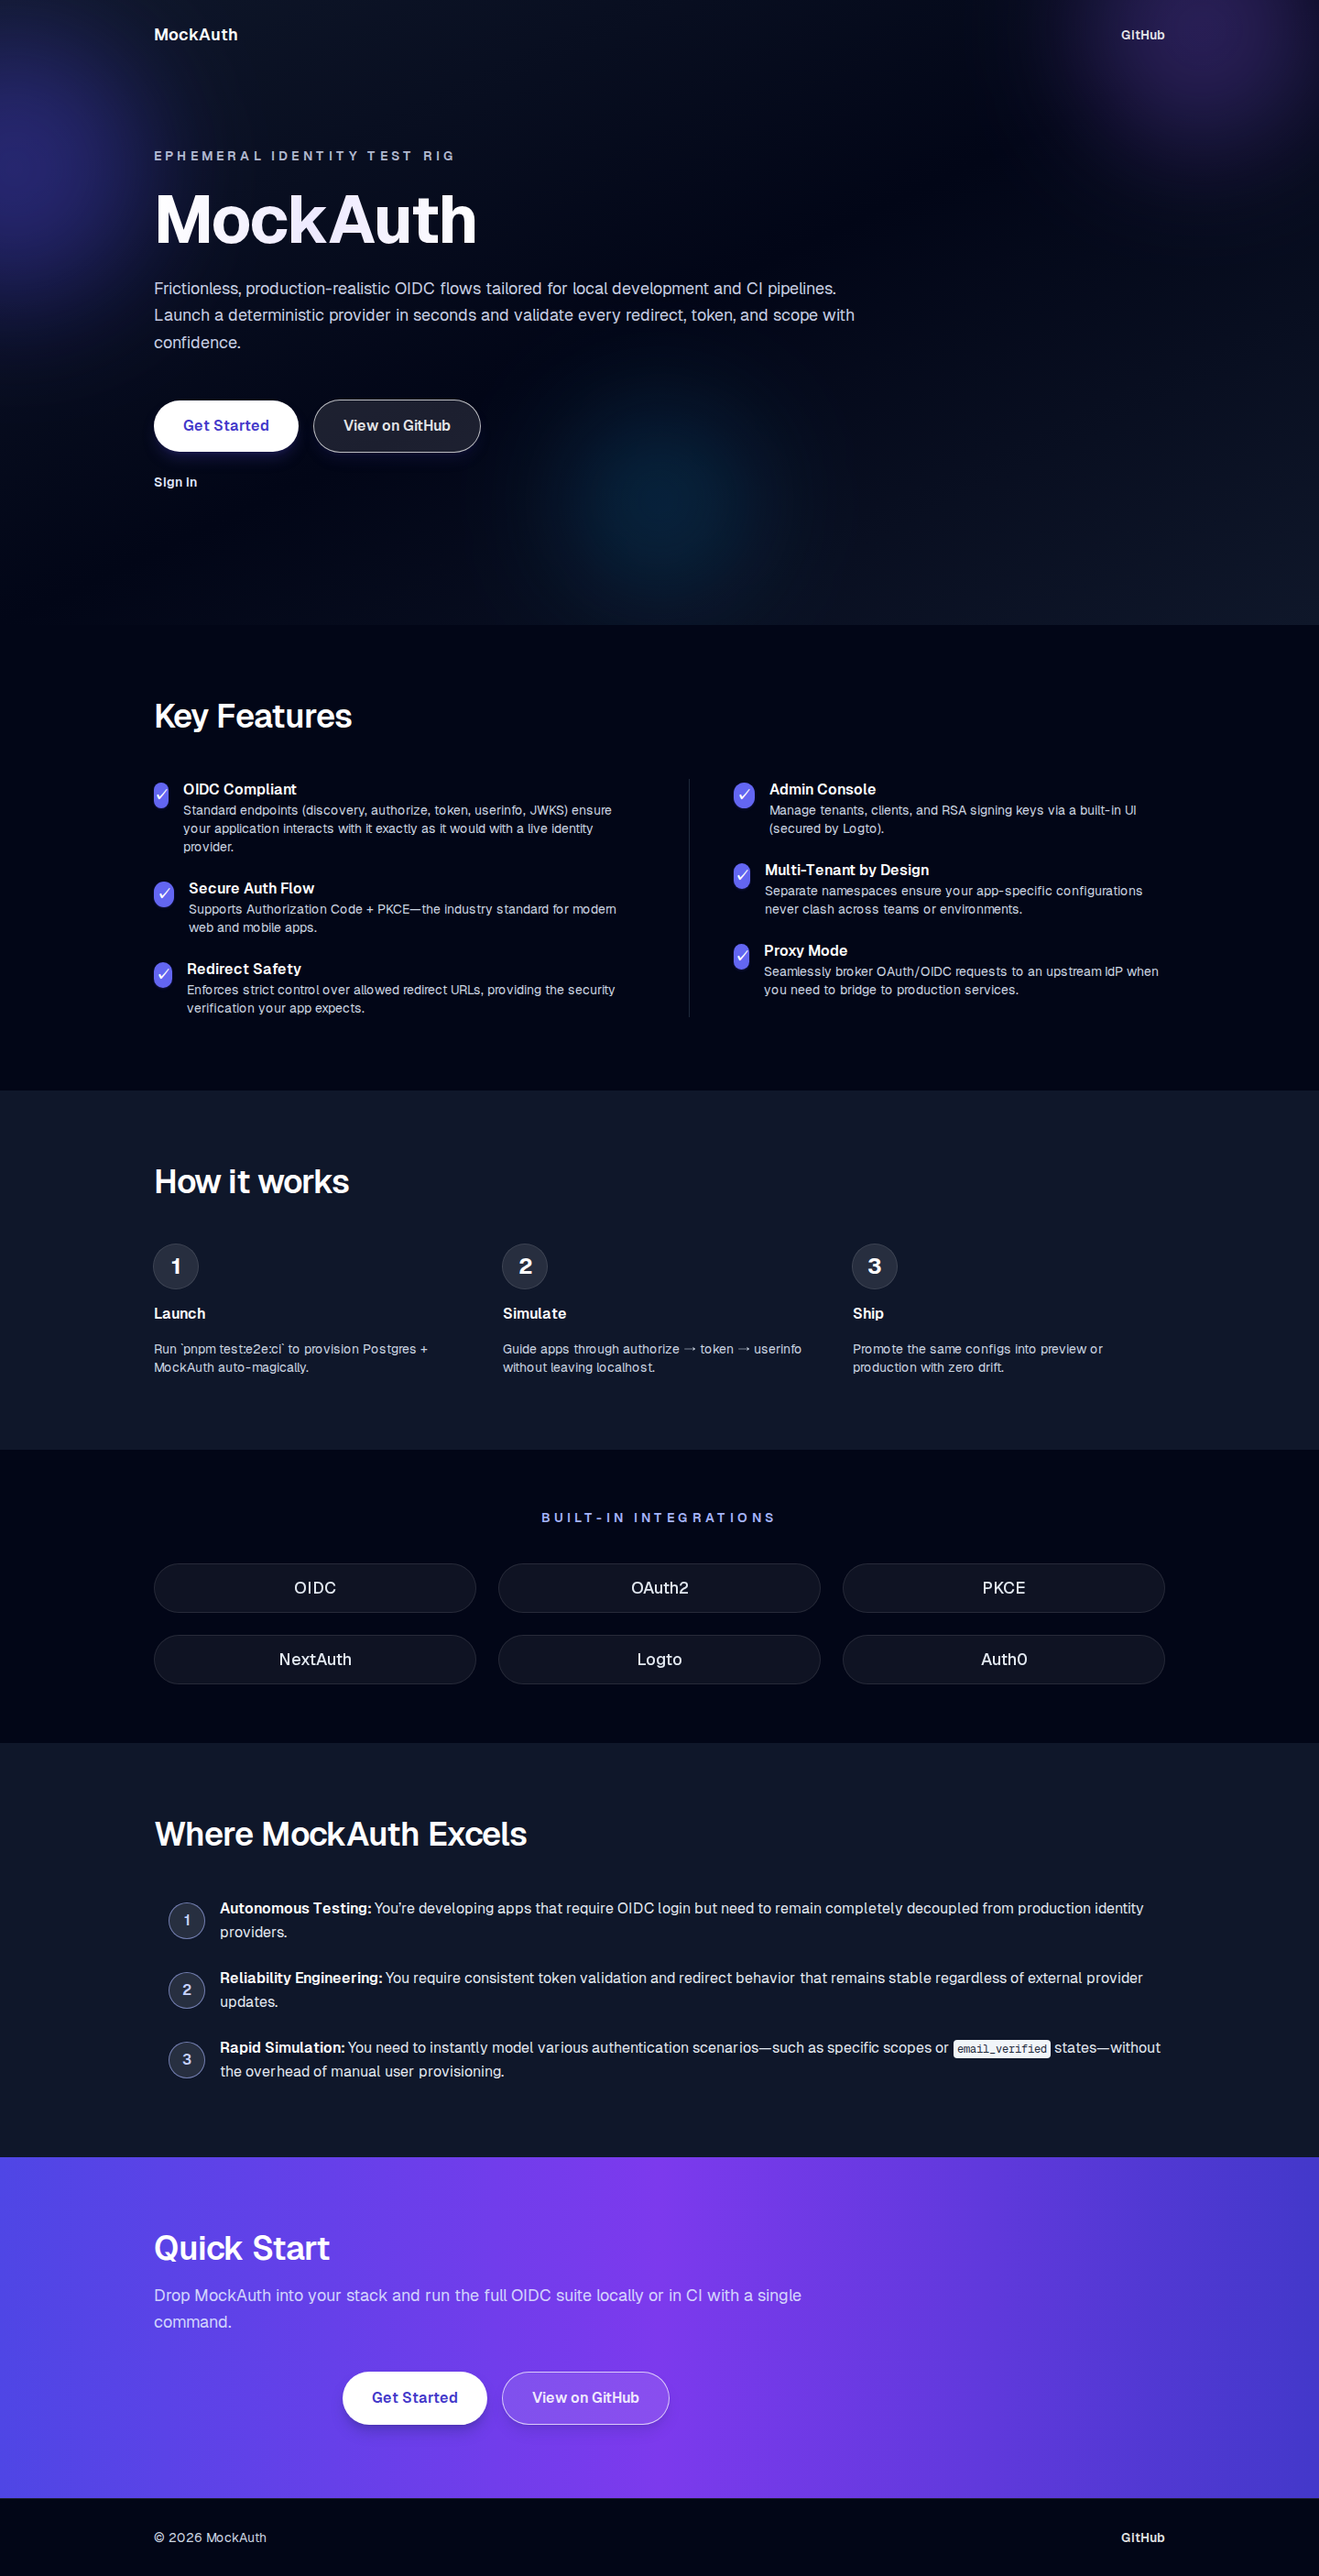
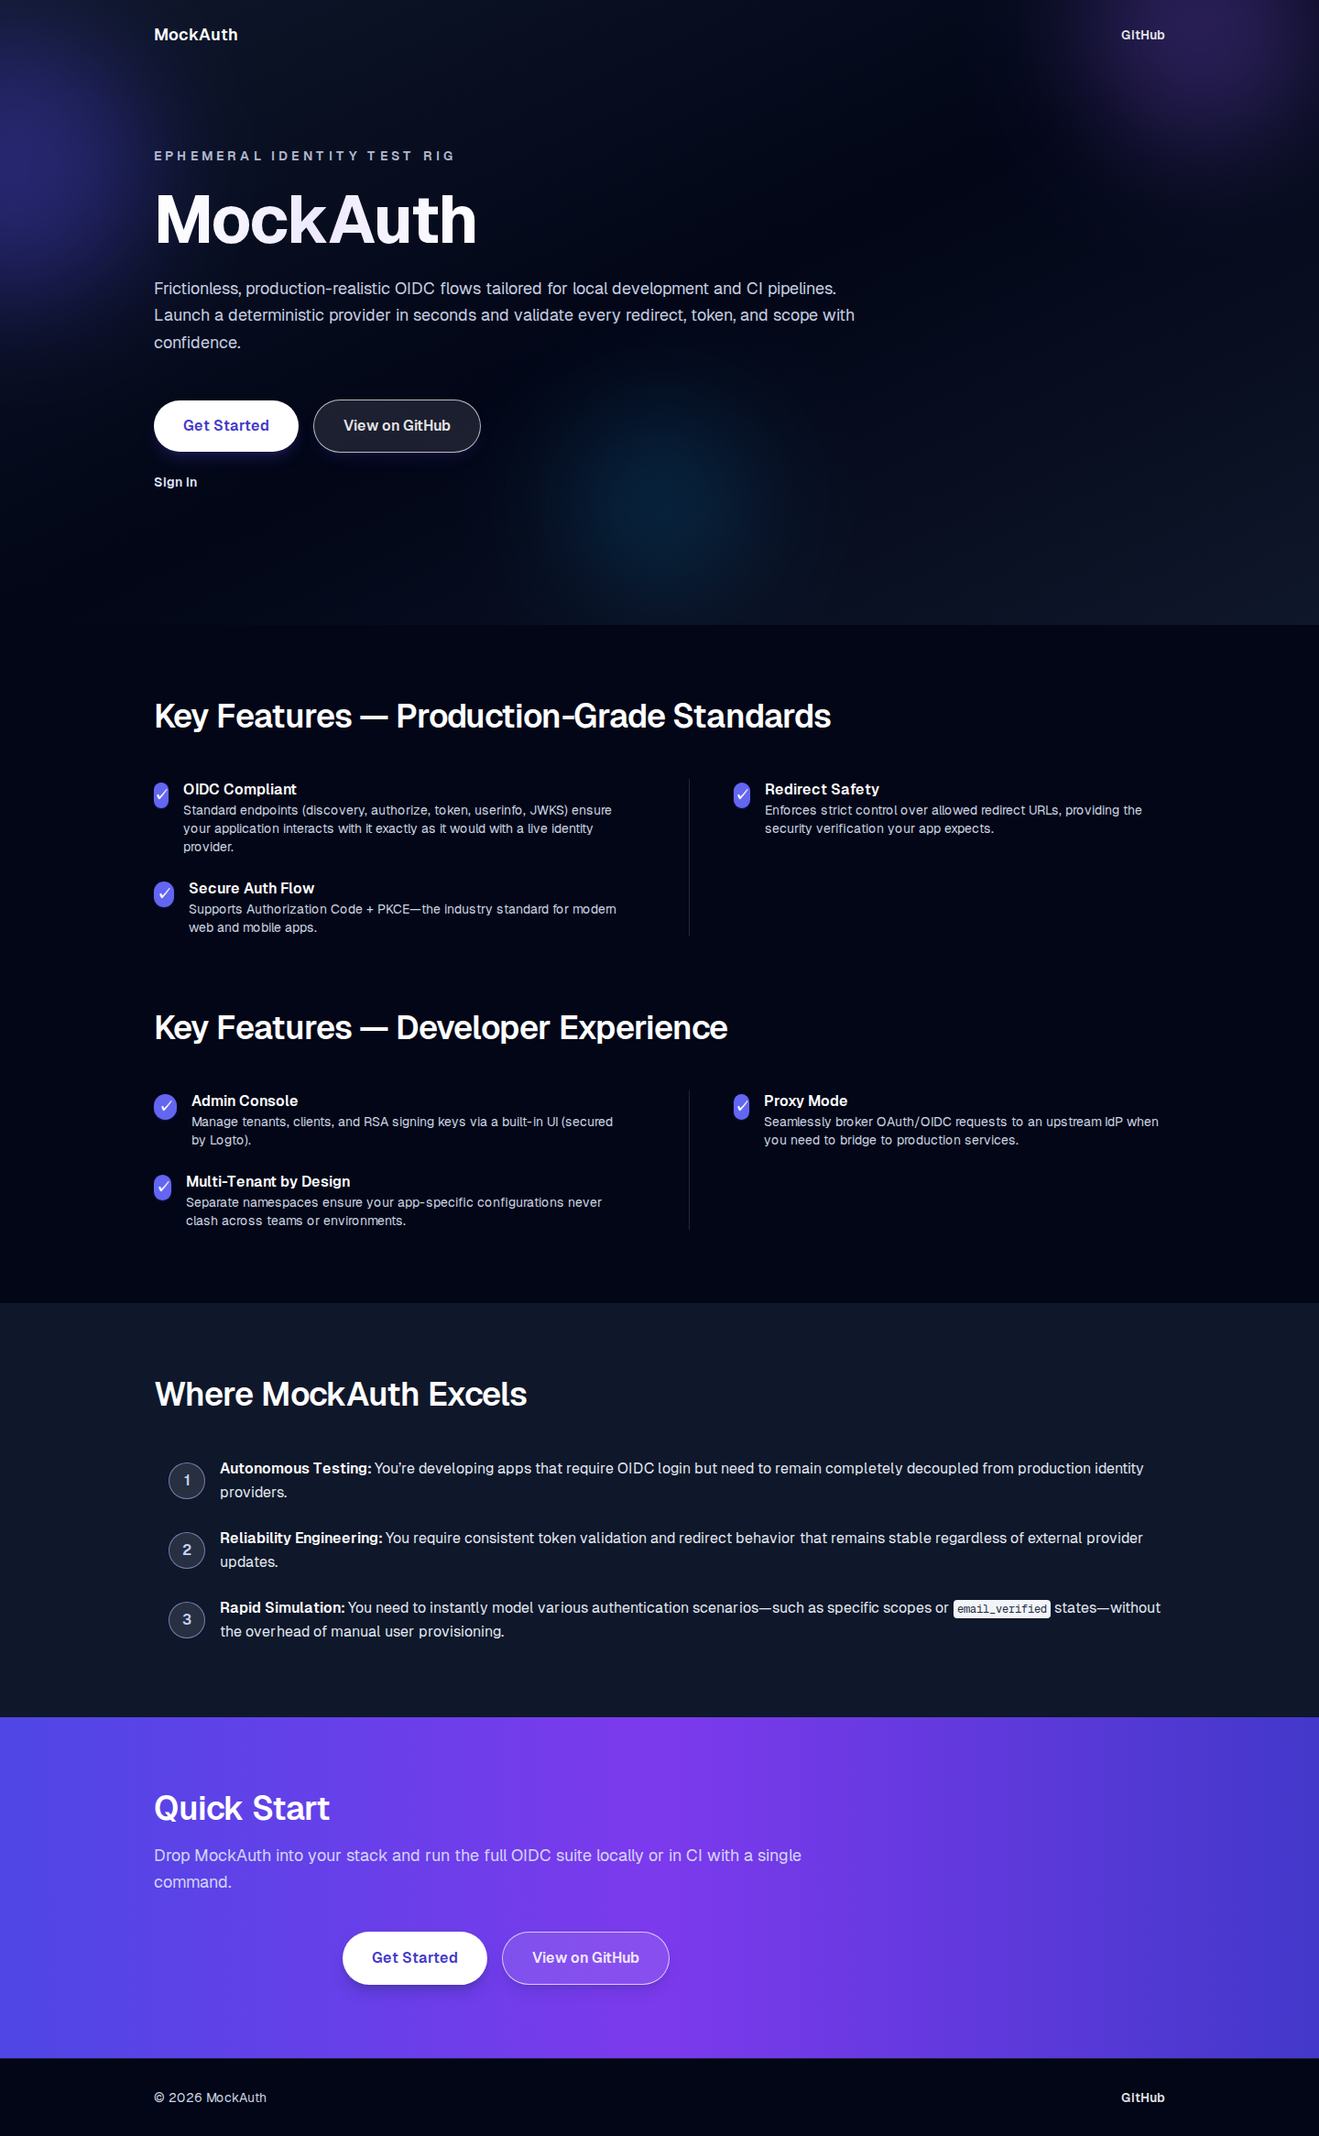
feat(landing): add narrative sections

diff --git a/src/app/v2/page.tsx b/src/app/v2/page.tsx
@@ -1,6 +1,24 @@
 import type { ReactNode } from "react";
 import Link from "next/link";
 
+const frictionPoints = [
+  {
+    title: "Decouple from External Dependencies",
+    description:
+      "Stop wrestling with third-party rate limits, latency, or unpredictable service outages during CI/CD. Maintain complete operational independence by running your identity layer as a local, containerized service.",
+  },
+  {
+    title: "On-Demand Environment Provisioning",
+    description:
+      "Achieve a clean state for every test run. Spin up isolated, pristine instances in seconds to ensure your E2E environment is perfectly synchronized with your application’s state and test data.",
+  },
+  {
+    title: "Guarantee Deterministic Test Cycles",
+    description:
+      "Eliminate the \"flakiness\" inherent in shared staging environments. Ensure your authentication logic is verified against a stable, version-controlled provider that responds with 100% consistency, every single time.",
+  },
+];
+
 const productionFeatures = [
   {
     title: "OIDC Compliant",
@@ -140,6 +158,37 @@ export default function LandingV2() {
                   Sign in
                 </Link>
               </div>
+            </div>
+          </div>
+        </section>
+
+        <section className="bg-slate-950">
+          <div className="mx-auto max-w-6xl px-6 py-20">
+            <h2 className="text-3xl font-semibold tracking-tight text-white sm:text-4xl">The Auth Testing Standard</h2>
+            <blockquote className="mt-10 rounded-3xl border border-white/10 bg-slate-900/80 p-10 text-lg leading-8 text-slate-200 shadow-xl shadow-indigo-950/30">
+              <span className="block border-l-8 border-indigo-500/60 pl-8 italic text-slate-100">
+                A purpose-built, standards-compliant OIDC identity provider designed for testing. It simulates the behavior of a
+                production authentication server, allowing you to validate sign-ins, token handling, and redirect logic in isolated
+                environments without relying on real user accounts or external services. It is optimized for QA, local development,
+                and ephemeral CI pipelines where you need reliable, repeatable, and clean auth states.
+              </span>
+            </blockquote>
+          </div>
+        </section>
+
+        <section className="bg-slate-900">
+          <div className="mx-auto max-w-6xl px-6 py-20">
+            <h2 className="text-3xl font-semibold tracking-tight text-white sm:text-4xl">Eliminate Auth Friction</h2>
+            <div className="mt-12 grid grid-cols-1 gap-6 lg:grid-cols-3">
+              {frictionPoints.map((point) => (
+                <div
+                  key={point.title}
+                  className="flex flex-col gap-3 rounded-2xl border border-indigo-300/60 bg-white/5 p-8 shadow-lg shadow-indigo-950/40 ring-1 ring-indigo-400/40"
+                >
+                  <h3 className="text-xl font-semibold text-white">{point.title}</h3>
+                  <p className="text-base text-indigo-100/90">{point.description}</p>
+                </div>
+              ))}
             </div>
           </div>
         </section>
